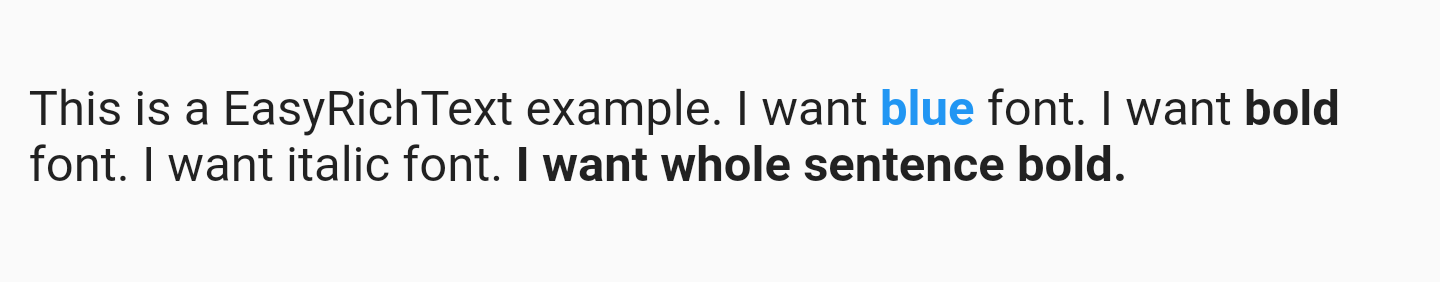
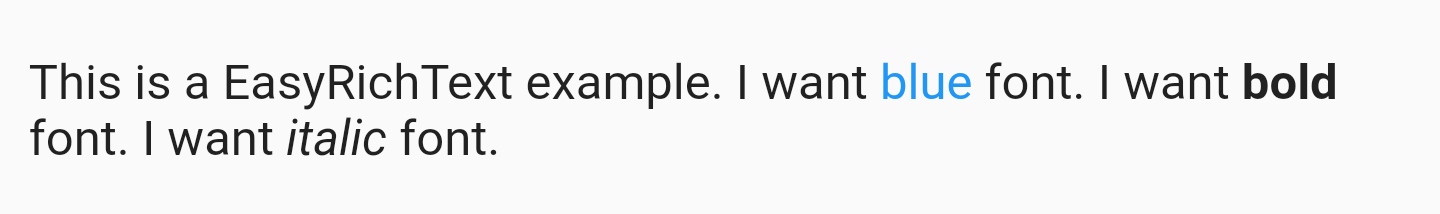
implement EasyRichTextPattern; update readme and demo

Changed region(s): [[0.0, 0.2804, 0.7812, 0.729], [0.5312, 0.2804, 0.9375, 0.4766]]

diff --git a/example/lib/main.dart b/example/lib/main.dart
@@ -26,14 +26,16 @@ class MyHomePage extends StatefulWidget {
 }
 
 class _MyHomePageState extends State<MyHomePage> {
-  String str =
-      "This is a EasyRichText example. I want blue font. I want bold font. I want italic font. ";
-  String str2 =
-      "This is a EasyRichText example. I want blue font here. I want no blue font here";
-  String str3 =
-      "This is a EasyRichText example. I want blue superscript font here. I want no blue font here";
   @override
   Widget build(BuildContext context) {
+    String str1 =
+        "This is a EasyRichText example. I want blue font. I want bold font. I want italic font. ";
+    String str2 =
+        "This is a EasyRichText example with default grey font. I want blue font here.";
+    String str3 =
+        "This is a EasyRichText example. I want blue superscript font here. I want no blue font here";
+    String str4 = "This is a EasyRichText example. I want blue font here. TextOverflow.ellipsis, TextAlign.justify, maxLines: 1";
+
     return Scaffold(
       appBar: AppBar(
         // Here we take the value from the MyHomePage object that was created by
@@ -47,7 +49,7 @@ class _MyHomePageState extends State<MyHomePage> {
             mainAxisAlignment: MainAxisAlignment.center,
             children: <Widget>[
               EasyRichText(
-                str,
+                str1,
                 patternList: [
                   EasyRichTextPattern(
                     targetString: 'blue',
@@ -67,7 +69,7 @@ class _MyHomePageState extends State<MyHomePage> {
                 height: 80,
               ),
               EasyRichText(
-                str,
+                str2,
                 defaultStyle: TextStyle(color: Colors.grey),
                 patternList: [
                   EasyRichTextPattern(
@@ -84,23 +86,7 @@ class _MyHomePageState extends State<MyHomePage> {
                 height: 80,
               ),
               EasyRichText(
-                str2,
-                patternList: [
-                  EasyRichTextPattern(
-                    targetString: 'blue',
-                    stringBeforeTarget: 'want',
-                    style: TextStyle(color: Colors.blue),
-                  ),
-                ],
-              ),
-              Container(
-                height: 80,
-              ),
-              EasyRichText(
                 str3,
-                defaultStyle: TextStyle(
-                  color: Colors.grey,
-                ),
                 patternList: [
                   EasyRichTextPattern(
                       targetString: 'blue',
@@ -114,10 +100,7 @@ class _MyHomePageState extends State<MyHomePage> {
                 height: 80,
               ),
               EasyRichText(
-                str2,
-                defaultStyle: TextStyle(
-                  color: Colors.grey,
-                ),
+                str4,
                 patternList: [
                   EasyRichTextPattern(
                     targetString: 'blue',

diff --git a/test/easy_rich_text_test.dart b/test/easy_rich_text_test.dart
@@ -20,7 +20,7 @@ void main() {
     )));
   });
 
-  test('compare EasyRichText with Text', () {
+  test('compare EasyRichText with RichText', () {
     String str =
         "This is a EasyRichText example. I want blue font. I want bold font. I want italic font.";
 

diff --git a/README.md b/README.md
@@ -1,94 +1,109 @@
 # extended_rich_text
 
-  
+The EasyRichText widget provides a easy way to use RichText when you want to use specific style for specific word pattern.
 
-The EasyRichText widget provides a easy way to use RichText when you want to use specific style for specific word.
+This widget split string into multiple TextSpan by defining a List of EasyRichTextPattern();
 
-This widget split string into multiple TextSpan by defining a <pattern,TextStyle> Map;
-
-  
+The EasyRichTextPattern is a class defines the text pattern you want to format.
 
 ## Getting Started
-
-  
 
 ### Installing:
 
 ```yaml
-
 dependencies:
   easy_rich_text: '^0.2.0'
-
 ```
 
-  
 
-### Usage:
-```dart
-String str = "This is a EasyRichText example. I want blue font. I want bold font. I want italic font. I want whole sentence bold." ;
-```
-  
 
 #### Simple example:
 
 ![alt text](https://github.com/2000calories/flutter_easy_rich_text/blob/master/screen_shots/simple.png)
 
 ```dart
+String str1 = "This is a EasyRichText example. I want blue font. I want bold font. I want italic font. ";
 
 EasyRichText(
-  text: str,
-  patternMap: {
-    ' bold ': TextStyle(fontWeight: FontWeight.bold),
-    'I want whole sentence bold.': TextStyle(fontWeight: FontWeight.bold),
-    ' blue ': TextStyle(fontWeight: FontWeight.bold, color: Colors.blue)
-  },
-)
-
+  str1,
+  patternList: [
+    EasyRichTextPattern(
+      targetString: 'blue',
+      style: TextStyle(color: Colors.blue),
+    ),
+    EasyRichTextPattern(
+      targetString: 'bold',
+      style: TextStyle(fontWeight: FontWeight.bold),
+    ),
+    EasyRichTextPattern(
+      targetString: 'italic',
+      style: TextStyle(fontStyle: FontStyle.italic),
+    ),
+  ],
+),
 ```
-
-  
 
 #### Default Style:
 
 ![alt text](https://github.com/2000calories/flutter_easy_rich_text/blob/master/screen_shots/default%20style.png)
 
 ```dart
+String str2 = "This is a EasyRichText example with default grey font. I want blue font here.";
 
 EasyRichText(
-  text: str,
+  str2,
   defaultStyle: TextStyle(color: Colors.grey),
-  patternMap: {
-    ' bold ': TextStyle(fontWeight: FontWeight.bold),
-    ' blue ': TextStyle(fontWeight: FontWeight.bold, color: Colors.blue),
-    ' italic ': TextStyle(fontStyle: FontStyle.italic,),
-  },
+  patternList: [
+    EasyRichTextPattern(
+      targetString: 'blue',
+      style: TextStyle(color: Colors.blue),
+    ),
+    EasyRichTextPattern(
+      targetString: 'bold',
+      style: TextStyle(fontWeight: FontWeight.bold),
+    ),
+  ],
 ),
-
 ```
 
-  
+#### superscript and subscript.
+
+![alt text](https://github.com/2000calories/flutter_easy_rich_text/blob/master/screen_shots/superscript.png)
+
+```dart
+String str3 = "This is a EasyRichText example. I want blue superscript font here. I want no blue font here";
+
+EasyRichText(
+  str3,
+  patternList: [
+    EasyRichTextPattern(
+        targetString: 'blue',
+        stringBeforeTarget: 'want',
+        style: TextStyle(color: Colors.blue),
+        superScript: true),
+  ],
+  textAlign: TextAlign.justify,
+),
+```
 
 #### All RichText properties accessible: textAlign, maxLines, overflow, etc.
 
 ![alt text](https://github.com/2000calories/flutter_easy_rich_text/blob/master/screen_shots/rich%20text%20overflow.png)
 
-
 ```dart
+String str4 = "This is a EasyRichText example. I want blue font here. TextOverflow.ellipsis, TextAlign.justify, maxLines: 1";
 
 EasyRichText(
-  text: str,
-  defaultStyle:  TextStyle(
-    color:  Colors.grey,
-  ),
-  patternMap: {
-    ' bold ':  TextStyle(fontWeight:  FontWeight.bold),
-    'I want whole sentence bold.': TextStyle(fontWeight:  FontWeight.bold),
-    ' blue ':  TextStyle(fontWeight:  FontWeight.bold, color:  Colors.blue),
-    ' italic ':  TextStyle(fontStyle:  FontStyle.italic,),
-  },
-  textAlign:  TextAlign.justify,
-  maxLines:  1,
-  overflow:  TextOverflow.ellipsis,
+  str4,
+  patternList: [
+    EasyRichTextPattern(
+      targetString: 'blue',
+      stringBeforeTarget: 'want',
+      style: TextStyle(color: Colors.blue),
+    ),
+  ],
+  textAlign: TextAlign.justify,
+  maxLines: 1,
+  overflow: TextOverflow.ellipsis,
 ),
-
 ```
